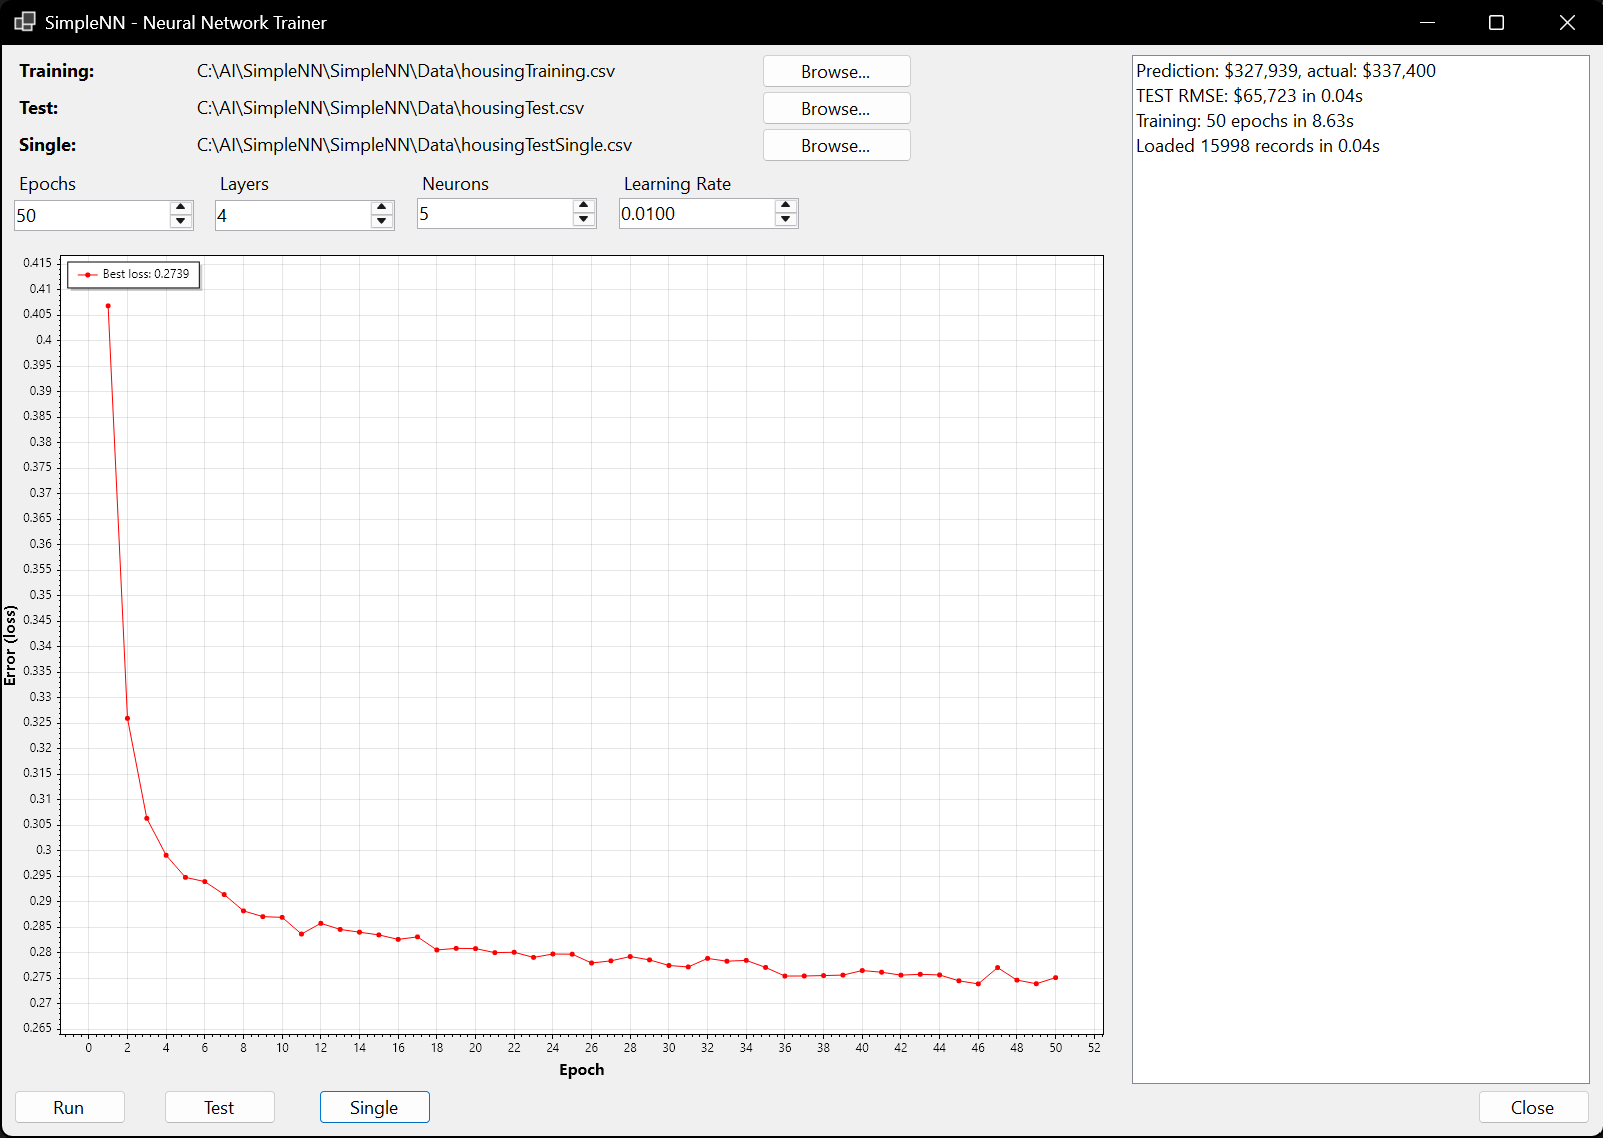
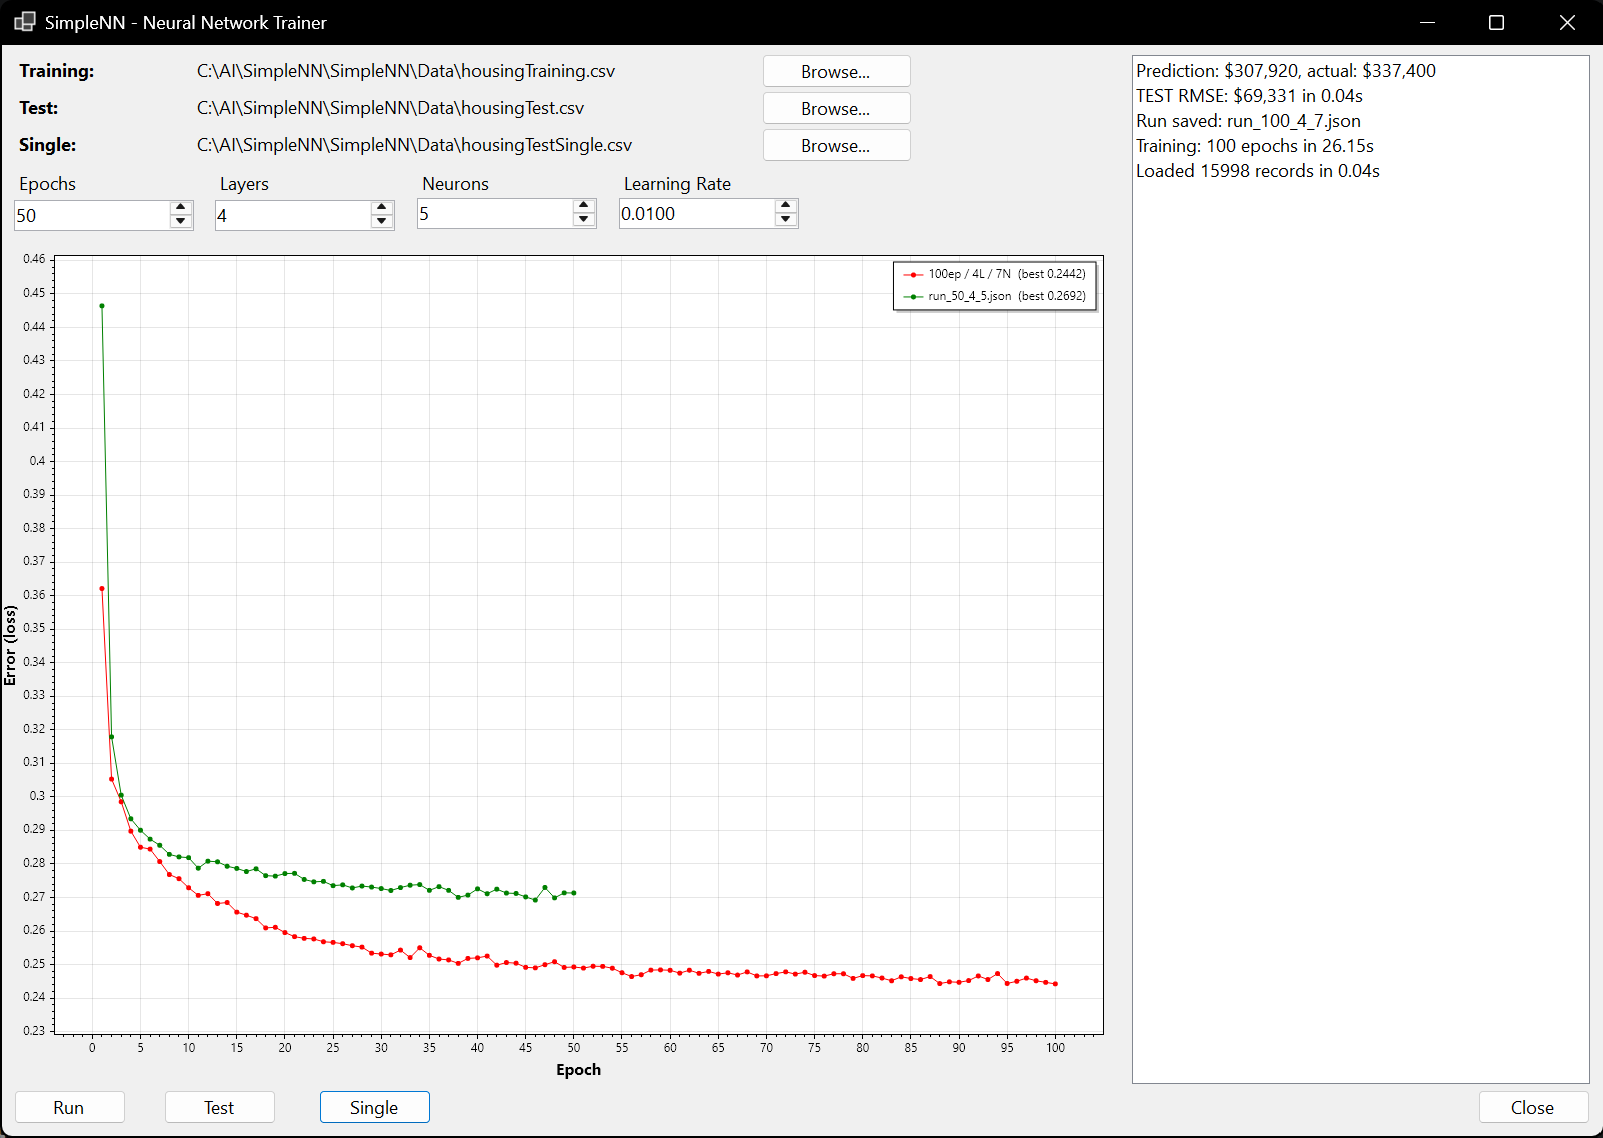
Add save & overlay-compare of runs; finish English UI
- Run now saves each run's loss curve to Results/ and overlays saved runs
  (in different colors) on the same graph for comparison, keyed by hyperparameters
- Translate the remaining Italian plot axis labels (Epoch / Error (loss))
- Robust results folder (falls back to a local folder off the dev machine)
- Refresh sample runs in Results/; update README and screenshot for the feature

Changed region(s): [[0.0, 0.2153, 0.6862, 0.9534], [0.7174, 0.0615, 0.8734, 0.1538]]

diff --git a/Form1.cs b/Form1.cs
@@ -17,6 +17,13 @@ namespace SimpleNN
 
         private readonly ToolTip toolTip = new ToolTip();
 
+        // Curves currently drawn on the graph (by file name), so the same run isn't plotted twice
+        // and several runs can be overlaid to compare them. A new training Run resets the set.
+        private readonly HashSet<string> plottedRuns = new HashSet<string>();
+        private int colorIndex = 0;
+        private static readonly Color[] palette =
+            { Color.Red, Color.Green, Color.Blue, Color.Magenta, Color.DarkOrange, Color.Teal, Color.Brown };
+
         public Form1()
         {
             InitializeComponent();
@@ -124,8 +131,14 @@ namespace SimpleNN
                 lstLog.Items.Insert(0, string.Format("Training: {0} epochs in {1:F2}s",
                     trainer.epoche, DateTime.Now.Subtract(start).TotalSeconds));
 
-                // 4) Mostra la curva della loss. Per valutare sul test set premere "Test".
-                updateplot(trainer.lossLogs.Count);
+                // 4) Show the loss curve (a new Run resets the graph). Press "Test" to evaluate.
+                double[] losses = trainer.lossLogs.ToArray();
+                ResetPlot();
+                AddCurve(losses, RunLabel(numbxEpox.Value, numbxLayers.Value, numbxNeurons.Value, losses));
+                plottedRuns.Add(Path.GetFileName(RunFileName()));
+
+                // 5) Save this run's loss curve so it can be recalled/compared later.
+                saveRun();
             }
             catch (Exception ex)
             {
@@ -137,18 +150,45 @@ namespace SimpleNN
             }
         }
 
+        // Folder where training runs are saved/recalled. Uses the configured folder when it is
+        // usable on this machine, otherwise falls back to a "Results" folder next to the app.
+        private static string ResultsDir()
+        {
+            string configured = Properties.Settings.Default.ResultsFolder;
+            string dir = configured;
+            try
+            {
+                string? parent = Path.GetDirectoryName(Path.TrimEndingDirectorySeparator(configured));
+                if (string.IsNullOrWhiteSpace(configured) || parent == null || !Directory.Exists(parent))
+                    dir = Path.Combine(AppContext.BaseDirectory, "Results");
+            }
+            catch
+            {
+                dir = Path.Combine(AppContext.BaseDirectory, "Results");
+            }
+            Directory.CreateDirectory(dir);
+            return dir;
+        }
+
+        // File name encodes the hyperparameters, so a run can be recalled by re-selecting them.
+        private string RunFileName()
+        {
+            string name = string.Format("run_{0}_{1}_{2}.json", numbxEpox.Value, numbxLayers.Value, numbxNeurons.Value);
+            return Path.Combine(ResultsDir(), name);
+        }
+
         private void saveRun()
         {
-            string fileName = string.Format("run_{0}_{1}_{2}.json", numbxEpox.Value, numbxLayers.Value, numbxNeurons.Value);
+            string fileName = RunFileName();
             string json = JsonConvert.SerializeObject(new { trainer.lossLogs });
             try
             {
-                fileName = Path.Combine(Properties.Settings.Default.ResultsFolder, fileName);
                 if (File.Exists(fileName))
                 {
                     File.Delete(fileName);
                 }
                 File.WriteAllText(fileName, json);
+                lstLog.Items.Insert(0, "Run saved: " + Path.GetFileName(fileName));
             }
             catch (Exception e)
             {
@@ -156,29 +196,37 @@ namespace SimpleNN
             }
         }
 
-        private void updateplot(int currEpox)
+        // Clears the graph and the set of drawn curves, ready for a fresh comparison.
+        private void ResetPlot()
         {
             grphErr.Plot.Clear();
             grphErr.Plot.XLabel("Epoch");
             grphErr.Plot.YLabel("Error (loss)");
-            double[] yvalues = trainer.lossLogs.ToArray();
-            double bestloss = 100000000;
-            for (int i = 0; i < trainer.lossLogs.Count; i++)
-            {
-                if (trainer.lossLogs[i] < bestloss)
-                    bestloss = trainer.lossLogs[i];
-            }
-            double[] xvalues = new double[currEpox];
-            for (int i = 0; i < xvalues.Length; i++)
-            {
-                xvalues[i] = i + 1;
-            }
-            var legendloss = grphErr.Plot.Add.Scatter(xvalues, yvalues, color: ScottPlot.Color.FromColor(Color.Red));
-            legendloss.LegendText = "Best loss: " + bestloss.ToString("F4");
-            //            var legendaccuracy = grphErr.Plot.Add.Scatter(xvalues, accuracyLogs.ToArray(), color: ScottPlot.Color.FromColor(Color.Green));
+            plottedRuns.Clear();
+            colorIndex = 0;
+        }
+
+        // Adds one loss curve to the graph (overlaid on whatever is already there) with the next
+        // color from the palette and a legend entry.
+        private void AddCurve(double[] losses, string label)
+        {
+            double[] x = new double[losses.Length];
+            for (int i = 0; i < x.Length; i++) x[i] = i + 1;
+
+            Color c = palette[colorIndex % palette.Length];
+            colorIndex++;
+
+            var scatter = grphErr.Plot.Add.Scatter(x, losses, color: ScottPlot.Color.FromColor(c));
+            scatter.LegendText = label;
             grphErr.Plot.Axes.AutoScale();
-            grphErr.Plot.ShowLegend(ScottPlot.Alignment.UpperLeft, ScottPlot.Orientation.Horizontal);
+            grphErr.Plot.ShowLegend(ScottPlot.Alignment.UpperRight, ScottPlot.Orientation.Vertical);
             grphErr.Refresh();
+        }
+
+        private static string RunLabel(decimal epochs, decimal layers, decimal neurons, double[] losses)
+        {
+            double best = losses.Length > 0 ? losses.Min() : 0;
+            return string.Format("{0}ep / {1}L / {2}N  (best {3:F4})", epochs, layers, neurons, best);
         }
 
         private void enableControls(bool enabled)
@@ -198,49 +246,44 @@ namespace SimpleNN
             Application.DoEvents();
         }
 
+        // When the hyperparameters change, recall a previously saved run for those exact values
+        // (if one exists) and overlay its loss curve so it can be compared with the others.
         private void numbxEpox_ValueChanged(object sender, EventArgs e)
         {
-            string fileName = string.Format("run_{0}_{1}_{2}.json", numbxEpox.Value, numbxLayers.Value, numbxNeurons.Value);
-            fileName = Path.Combine(Properties.Settings.Default.ResultsFolder, fileName);
-            OldGraph(fileName);
+            OldGraph(RunFileName());
         }
 
-        private void OldGraph(string fileName, bool clearplot = true)
+        // Loads a saved run and overlays it on the graph. Skips runs already shown so curves
+        // accumulate for comparison without duplicates. A new training Run clears them (ResetPlot).
+        private void OldGraph(string fileName)
         {
-            if (File.Exists(fileName))
+            if (!File.Exists(fileName)) return;
+
+            string key = Path.GetFileName(fileName);
+            if (plottedRuns.Contains(key)) return;
+
+            // If this is the first curve (no Run yet this session), make sure the axes are labelled.
+            if (plottedRuns.Count == 0)
+            {
+                grphErr.Plot.XLabel("Epoch");
+                grphErr.Plot.YLabel("Error (loss)");
+            }
+
+            try
             {
                 string json = File.ReadAllText(fileName);
-                // Deserializza json in una variabile dinamica
                 dynamic deserializedData = JsonConvert.DeserializeObject<dynamic>(json);
+                if (deserializedData == null) return;
 
-                // Esempio: loggare i dati deserializzati
-                if (deserializedData != null)
-                {
-                    if (clearplot)
-                    {
-                        grphErr.Plot.Clear();
-                    }
-                    grphErr.Plot.XLabel("Numero epoche");
-                    grphErr.Plot.YLabel("Errore");
-                    double[] yvalues = deserializedData.lossLogs.ToObject<double[]>();
-                    double bestloss = 100000000;
-                    for (int i = 0; i < yvalues.Length; i++)
-                    {
-                        if (yvalues[i] < bestloss)
-                            bestloss = yvalues[i];
-                    }
-                    double[] xvalues = new double[Convert.ToInt32(numbxEpox.Value)];
-                    for (int i = 0; i < xvalues.Length; i++)
-                    {
-                        xvalues[i] = i + 1;
-                    }
-                    FileInfo fi = new FileInfo(fileName);
-                    var legendloss = grphErr.Plot.Add.Scatter(xvalues, yvalues, color: ScottPlot.Color.FromColor(Color.Green));
-                    legendloss.LegendText = "Filename: " + fi.Name + " Best loss: " + bestloss;
-                    grphErr.Plot.Axes.AutoScale();
-                    grphErr.Plot.ShowLegend(ScottPlot.Alignment.UpperLeft, ScottPlot.Orientation.Horizontal);
-                    grphErr.Refresh();
-                }
+                double[]? losses = deserializedData.lossLogs.ToObject<double[]>();
+                if (losses == null || losses.Length == 0) return;
+                double best = losses.Min();
+                plottedRuns.Add(key);
+                AddCurve(losses, string.Format("{0}  (best {1:F4})", key, best));
+            }
+            catch
+            {
+                // Ignore malformed or incompatible (old-format) run files.
             }
         }
 

diff --git a/README.md b/README.md
@@ -10,8 +10,9 @@ demonstrate how training actually works under the hood.
 
 ![SimpleNN training on the California Housing dataset](assets/screenshot-main.png)
 
-*The loss curve converges over 50 epochs of training; the log (right) shows the records
-loaded, the training time, the test RMSE in dollars, and a single prediction vs. the actual value.*
+*Two training runs overlaid for comparison (different epochs/neurons), each with its best loss in
+the legend; the log (right) shows the records loaded, the training time, the test RMSE in dollars,
+and a single prediction vs. the actual value.*
 
 ## Features
 
@@ -26,6 +27,9 @@ loaded, the training time, the test RMSE in dollars, and a single prediction vs.
   - **Run** trains the model and plots the loss curve (via [ScottPlot](https://scottplot.net/)).
   - **Test** evaluates the trained model on the held-out test set.
   - **Single** predicts one record and compares it to the real value.
+- **Save & compare runs**: every training run's loss curve is saved to `Results/`, keyed by its
+  hyperparameters (`run_{epochs}_{layers}_{neurons}.json`). Re-selecting those values overlays the
+  saved curve on the graph, so multiple runs can be compared side by side in different colors.
 
 ## Tech stack
 
@@ -53,7 +57,7 @@ cd SimpleNN
 dotnet run --project SimpleNN.csproj
 ```
 
-Then in the app: use the **Sfoglia…** (Browse) buttons to pick the CSV files (defaults point at
+Then in the app: use the **Browse…** buttons to pick the CSV files (defaults point at
 the bundled `Data/` files), set the hyperparameters, click **Run** to train, then **Test** to
 evaluate.
 
@@ -64,6 +68,7 @@ SimpleNN/
 ├── NeuralNetwork/      # Network, Layer, Neuron — the model and backprop
 ├── Trainer/            # LoadData (CSV + normalization), MainTrainer (training loop, RMSE)
 ├── Data/               # Sample California-housing CSVs
+├── Results/            # Saved run loss curves (run_{epochs}_{layers}_{neurons}.json)
 ├── Form1.cs            # WinForms UI: file selection, training, plotting, evaluation
 └── Program.cs          # Entry point
 ```